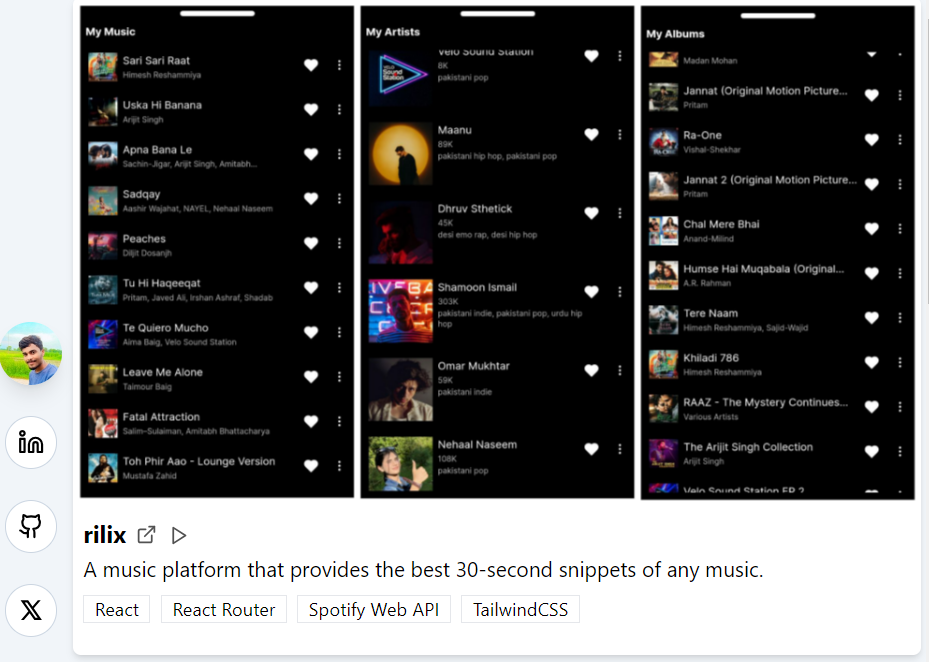
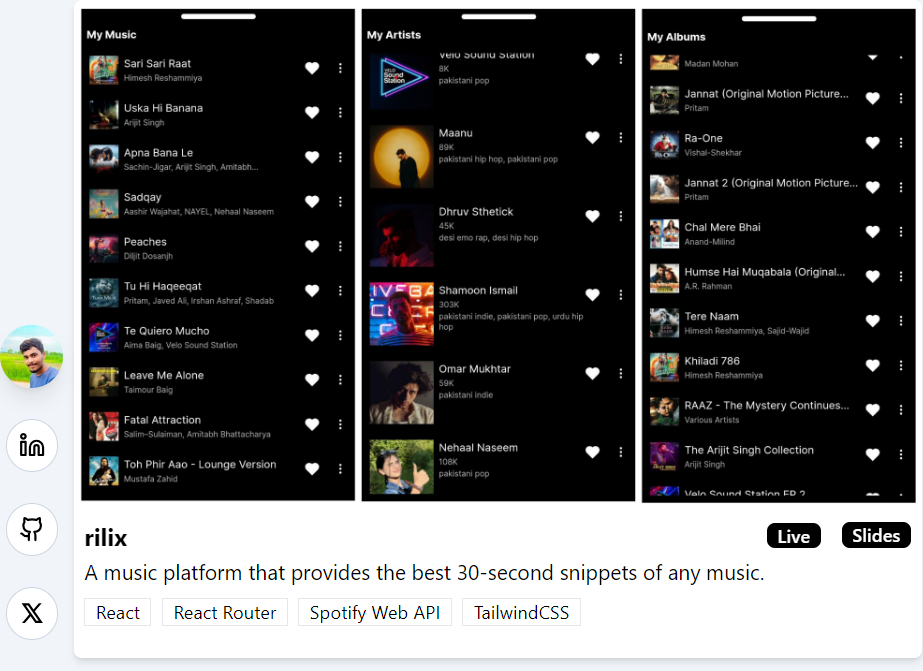
initial commit

diff --git a/src/components/Card.jsx b/src/components/Card.jsx
@@ -1,52 +1,35 @@
-import { ExternalLink, Play } from "lucide-react";
-
 export default function Card({ props, setSelectedCard }) {
   return (
     <>
       <div className="bg-white rounded-md pb-4 shadow-md">
-        {props.slideID ? (
-          <>
-            <div className="relative">
-              <img
-                className="md:h-64 sm:w-full p-1 object-cover cursor-pointer"
-                src={props.image}
-                alt=""
-                onClick={() => setSelectedCard(props)}
-                loading="lazy"
-              />
-            </div>
-          </>
-        ) : (
-          <img
-            className="md:h-64 sm:w-full p-1 object-cover"
-            src={props.image}
-            alt=""
-          />
-        )}
+        <img
+          className="md:h-64 sm:w-full p-1 object-cover"
+          src={props.image}
+          alt=""
+        />
 
         <div className="p-2">
-          <div className="flex flex-row items-center ">
-            {props.link ? (
-              <a
-                href={props.link}
-                target="_blank"
-                className="flex flex-row items-center w-fit hover:underline"
-              >
-                <span className="text-lg font-bold">{props.name}</span>
+          <div className="relative">
+            <span className="text-lg font-bold mr-3">{props.name}</span>
+            <div className="flex flex-row absolute right-0 top-0 gap-x-4 items-center">
+              {props.links &&
+                props.links.map((link, index) => (
+                  <a href={link.url} key={index}>
+                    <span className="bg-black text-white font-medium px-2 rounded-md">
+                      {link.name}
+                    </span>
+                  </a>
+                ))}
 
-                <span>
-                  <ExternalLink className="ml-2 w-4 h-4 text-neutral-600" />
-                </span>
-              </a>
-            ) : (
-              <span className="text-lg font-bold">{props.name}</span>
-            )}
-
-            {props.slideID && (
-              <span>
-                <Play className="ml-2 w-4 h-4 text-neutral-600 mt-[1px]" />
-              </span>
-            )}
+              {props.presentation && (
+                <button
+                  onClick={() => setSelectedCard(props)}
+                  className="bg-black text-white font-medium px-2 rounded-md"
+                >
+                  Slides
+                </button>
+              )}
+            </div>
           </div>
 
           <p>{props.text}</p>

diff --git a/src/App.jsx b/src/App.jsx
@@ -64,35 +64,24 @@ function App() {
       </div>
 
       {selectedCard && (
-        <div className="w-dvw h-dvh backdrop-blur-sm bg-black/40 fixed top-0 overflow-hidden flex flex-row justify-center items-center px-2">
+        <div className="w-dvw h-dvh backdrop-blur-sm bg-black/40 fixed top-0 overflow-hidden flex flex-col justify-center items-center px-2">
           <div className="bg-white max-w-3xl sm:w-[45rem] md:w-[50rem]  rounded-md ">
-            <GoogleSlide ID={selectedCard.slideID} />
-
+            <GoogleSlide ID={selectedCard.presentation} />
             <div className="p-3">
-              <div className="flex flex-row items-center relative">
-                {selectedCard.link ? (
-                  <a
-                    href={selectedCard.link}
-                    target="_blank"
-                    className="flex flex-row items-center w-fit hover:underline"
-                  >
-                    <span className="text-lg font-bold">
-                      {selectedCard.name}
-                    </span>
-
-                    <span>
-                      <ExternalLink className="ml-2 w-4 h-4 text-neutral-600" />
-                    </span>
-                  </a>
-                ) : (
-                  <span className="text-lg font-bold">{selectedCard.name}</span>
-                )}
-                <button
-                  onClick={() => setSelectedCard(null)}
-                  className="absolute right-0"
-                >
-                  <X />
-                </button>
+              <div className="relative">
+                <span className="text-lg font-bold mr-3">
+                  {selectedCard.name}
+                </span>
+                <div className="flex flex-row absolute right-0 top-0 gap-x-4 items-center">
+                  {selectedCard.links &&
+                    selectedCard.links.map((link, index) => (
+                      <a href={link.url} key={index}>
+                        <span className="bg-black text-white font-medium px-2 rounded-md">
+                          {link.name}
+                        </span>
+                      </a>
+                    ))}
+                </div>
               </div>
               <p>{selectedCard.text}</p>
 
@@ -105,6 +94,12 @@ function App() {
               </div>
             </div>
           </div>
+          <button
+            onClick={() => setSelectedCard(null)}
+            className="p-2 mt-4 bg-white rounded-full"
+          >
+            <X />
+          </button>
         </div>
       )}
     </>
